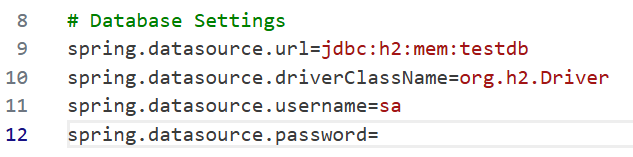
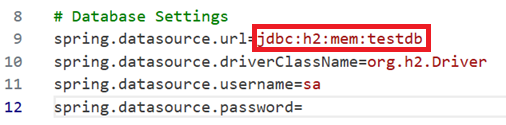
Updated README.md

diff --git a/README.md b/README.md
@@ -83,21 +83,23 @@ To give a fixed name to the service database, use the following settings:
 
 ![](/.images/trace-flix-h2-settings.png)
 
+The `spring.datasource.url` contains the database name. The last segment of the url is the name of the database. In the above example the database name is `testdb`.
+
+In the default setup, there were no database settings. A random database name will be generated each time the service starts up. This is intentional to keep the setup simple so as to focus on observability aspects of the application.
+
+![](/.images/trace-flix-h2-dbname.png)
+
 ### Database Console
 
 To expose the database console for data exploration, use the following settings:
 
 ![](/.images/trace-flix-h2-console.png)
 
-> In the default `docker-compose.yaml` setup, only `movie-service` has a ports mapping (`8080:8080`),
-> making it the only service accessible directly from the host machine (localhost).
->
-> `actor-service` and `review-service` operate entirely within Docker's internal container network.
-> They communicate via container hostnames (`http://actor-service:8080` and `http://review-service:8080`),
-> so their H2 web consoles cannot be reached from your host browser at localhost.
->
-> If you need to access the H2 web console for `actor-service` or `review-service`, you will need to expose
-> the container ports to host in `docker-compose.yaml`.
+In the default `docker-compose.yaml` setup, only `movie-service` has a ports mapping (`8080:8080`), making it the only service accessible directly from the host machine (localhost).
+
+`actor-service` and `review-service` operate entirely within Docker's internal container network. They communicate via container hostnames (`http://actor-service:8080` and `http://review-service:8080`), so their H2 web consoles cannot be reached from your host browser at localhost.
+
+If you need to access the H2 web console for `actor-service` or `review-service`, you will need to expose the container ports to host in `docker-compose.yaml`.
 
 ```
 actor-service:
